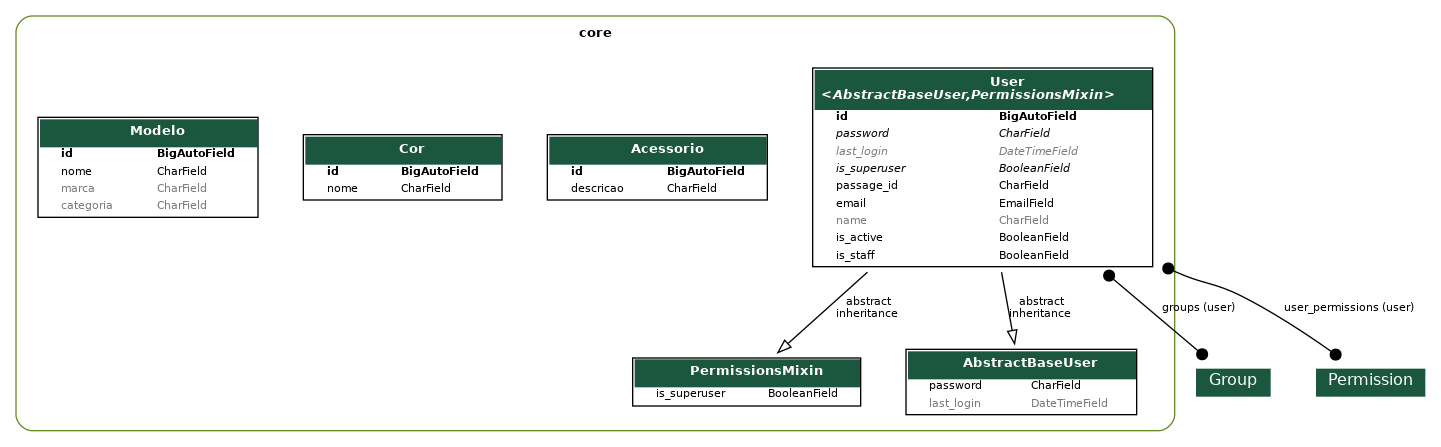
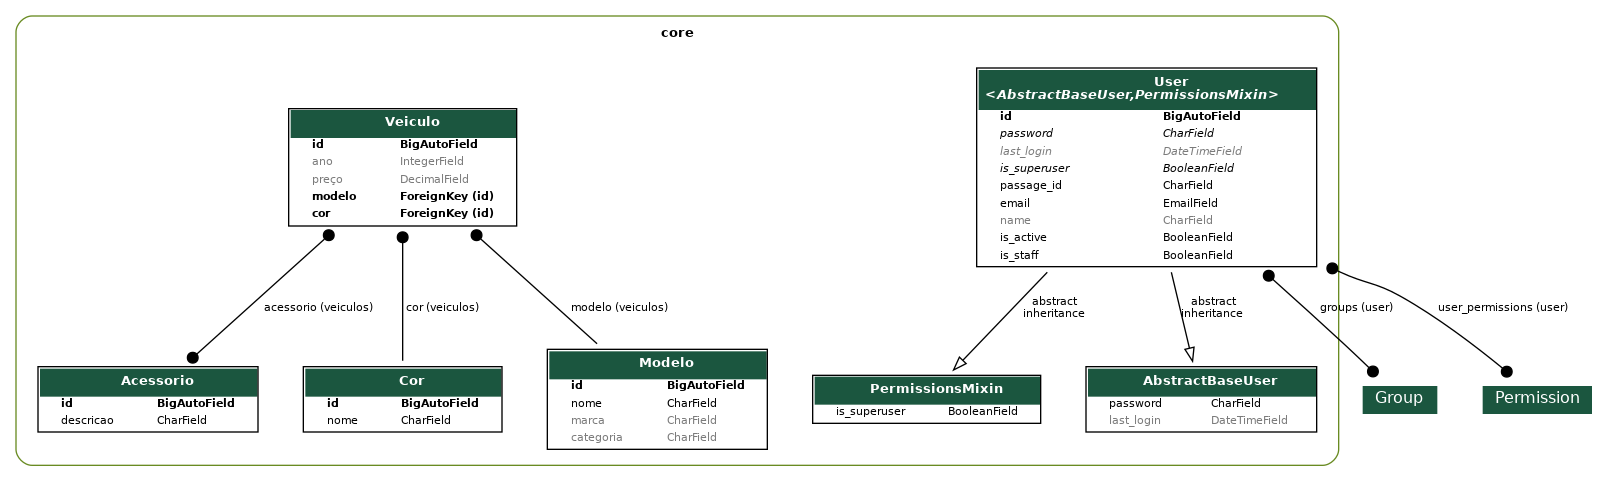
feat: criação da API para Veiculo

diff --git a/core/migrations/0008_veiculo.py b/core/migrations/0008_veiculo.py
@@ -1,0 +1,25 @@
+# Generated by Django 5.1.7 on 2025-04-25 18:33
+
+import django.db.models.deletion
+from django.db import migrations, models
+
+
+class Migration(migrations.Migration):
+
+    dependencies = [
+        ('core', '0007_modelo_alter_cor_options'),
+    ]
+
+    operations = [
+        migrations.CreateModel(
+            name='Veiculo',
+            fields=[
+                ('id', models.BigAutoField(auto_created=True, primary_key=True, serialize=False, verbose_name='ID')),
+                ('ano', models.IntegerField(blank=True, default=0, null=True)),
+                ('preço', models.DecimalField(blank=True, decimal_places=2, default=0, max_digits=10, null=True)),
+                ('acessorio', models.ManyToManyField(related_name='veiculos', to='core.acessorio')),
+                ('cor', models.ForeignKey(on_delete=django.db.models.deletion.PROTECT, related_name='veiculos', to='core.cor')),
+                ('modelo', models.ForeignKey(on_delete=django.db.models.deletion.PROTECT, related_name='veiculos', to='core.modelo')),
+            ],
+        ),
+    ]
